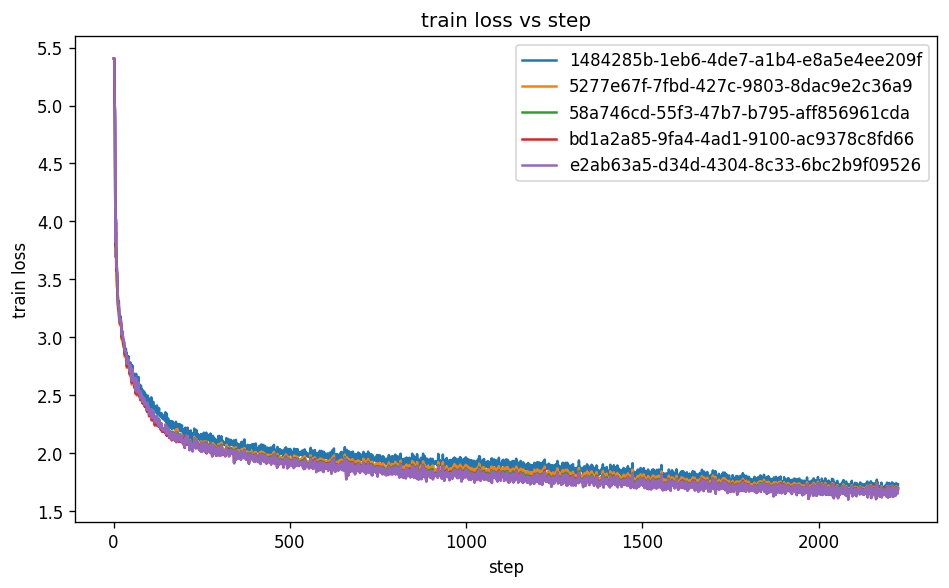
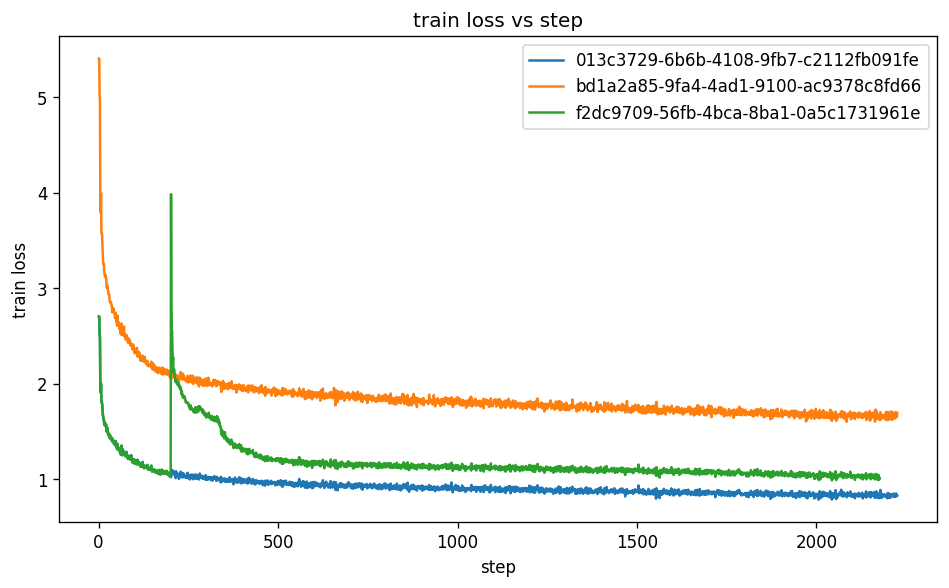
dump

diff --git a/popo.py b/popo.py
@@ -1353,27 +1353,33 @@ for opt in optimizers:
         opt.should_sync = False
 
 # optional optimizer reset/swap mid-training
-OPT_RESET_STEP = int(os.environ.get("OPT_RESET_STEP", "-1"))
+def _parse_reset_steps(val: str):
+    steps = []
+    for tok in val.split(","):
+        tok = tok.strip()
+        if not tok:
+            continue
+        try:
+            steps.append(int(tok))
+        except ValueError:
+            continue
+    return sorted(set(steps))
+
+OPT_RESET_STEPS = _parse_reset_steps(os.environ.get("OPT_RESET_STEPS", os.environ.get("OPT_RESET_STEP", "-1")))
 OPT_RESET_MODE = os.environ.get("OPT_RESET_MODE", "reset")  # "reset" or "adam"
 
 def make_optimizers(mode: str = "reset"):
+    # opt2 always starts as NorMuon; only when mode=="adam" do we swap to AdamW at reset step
+    opt1 = DistAdam(
+        scalar_params + head_params + embed_params,
+        lr=0.008,
+        betas=(0.65, 0.95),
+        eps=1e-8,
+        weight_decay=0.0,
+    )
     if mode == "adam":
-        opt1 = DistAdam(
-            scalar_params + head_params + embed_params,
-            lr=0.008,
-            betas=(0.65, 0.95),
-            eps=1e-8,
-            weight_decay=0.0,
-        )
         opt2 = torch.optim.AdamW(hidden_matrix_params + gate_params, lr=0.03, betas=(0.9, 0.95), weight_decay=1.2)
     else:
-        opt1 = DistAdam(
-            scalar_params + head_params + embed_params,
-            lr=0.008,
-            betas=(0.65, 0.95),
-            eps=1e-8,
-            weight_decay=0.0,
-        )
         opt2 = NorMuon(hidden_matrix_params + gate_params, lr=0.03, momentum=0.95, beta2=0.95, weight_decay=1.2)
     new_opts = [opt1, opt2]
     for opt in new_opts:
@@ -1490,7 +1496,7 @@ train_steps = args.num_iterations
 ws_short, ws_long = get_ws(0)
 for step in range(train_steps + 1):
     last_step = (step == train_steps)
-    if OPT_RESET_STEP >= 0 and step == OPT_RESET_STEP:
+    if OPT_RESET_STEPS and step in OPT_RESET_STEPS:
         mode = "adam" if OPT_RESET_MODE.lower() == "adam" else "reset"
         optimizers = make_optimizers(mode)
         print0(f"Resetting optimizers at step {step} with mode={mode}", console=True)
